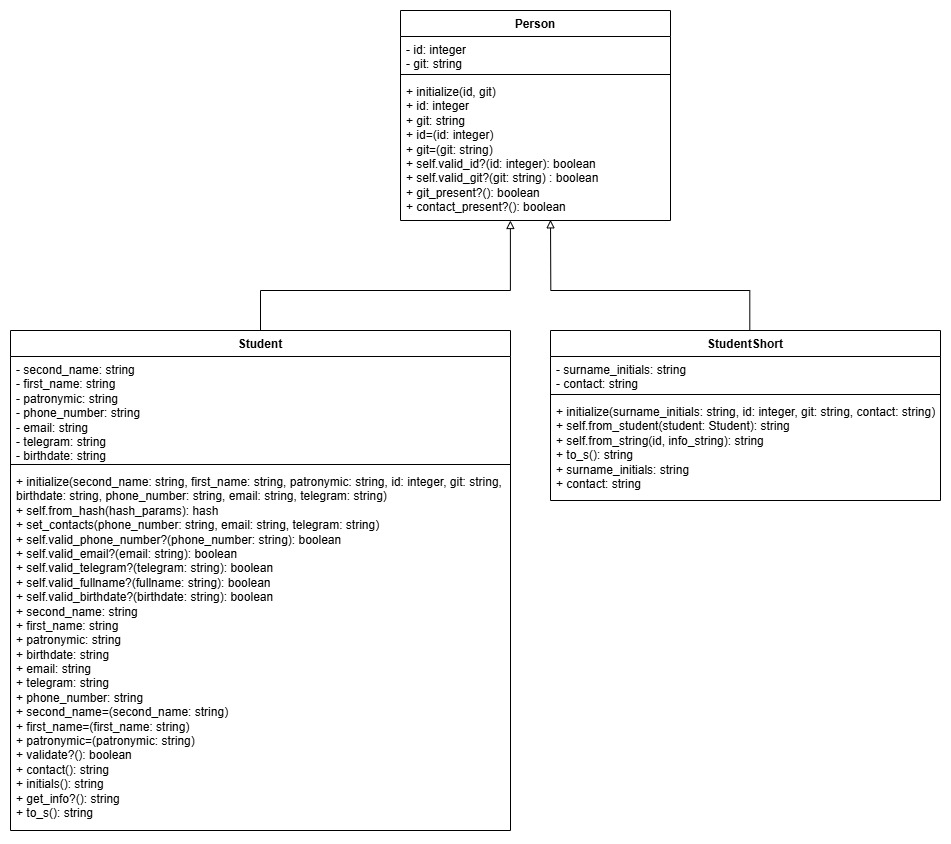
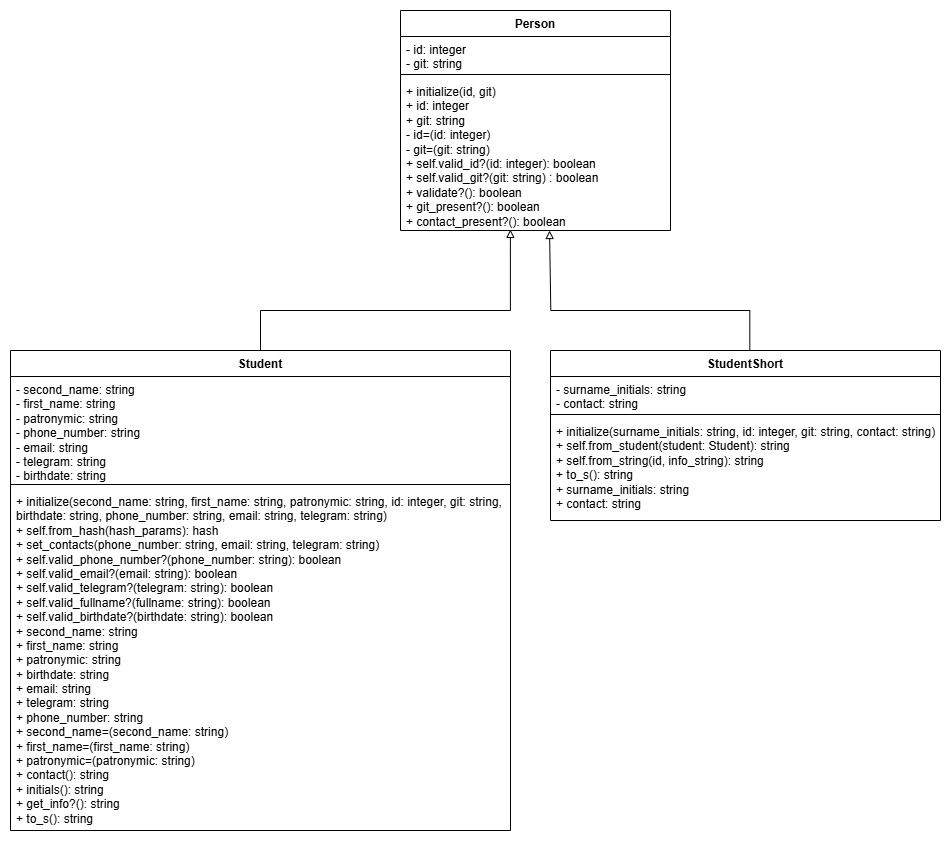
Lab2. privated id, git; validate moved to person

diff --git a/student/person.rb b/student/person.rb
@@ -8,14 +8,14 @@ class Person
     	self.git = git if git
 	end
 
-	def id=(id)
+	private def id=(id)
 		unless Person.valid_id?(id)
 			raise ArgumentError, "ID должно быть целым числом больше нуля"
 		end
 		@id = id 
 	end
 
-  	def git=(git)
+  	private def git=(git)
   		unless Person.valid_git?(git)
   			raise ArgumentError, "Git некорректный. Пример: https://github.com/username"
   		end
@@ -29,6 +29,10 @@ class Person
 	def self.valid_git?(git)
   		git.match?(GIT_REGEX)
   	end
+
+  	def validate?
+		git_present? && contact_present?
+	end
 
   	def git_present?
   		!git.nil?

diff --git a/student/student.rb b/student/student.rb
@@ -15,7 +15,7 @@ class Student < Person
 		self.patronymic = patronymic
 		super(id: id, git: git)
 		self.birthdate = birthdate
-		self.set_contacts(phone_number: phone_number, email:email, telegram: telegram)
+		self.set_contacts(phone_number: phone_number, email: email, telegram: telegram)
 	end
 
 	def self.from_hash(hash_params)
@@ -95,10 +95,6 @@ class Student < Person
 			raise ArgumentError, "Дата рождения не соответствует формату (дд.мм.гггг)"
 		end
 		@birthdate = birthdate
-	end
-
-	def validate?
-		git_present? && contact_present?
 	end
 
 	def contact
